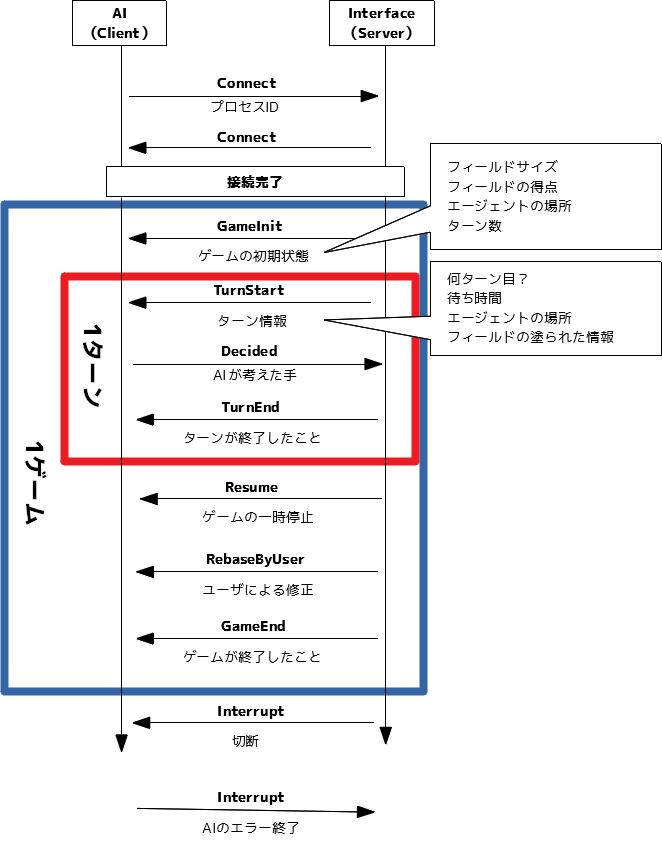
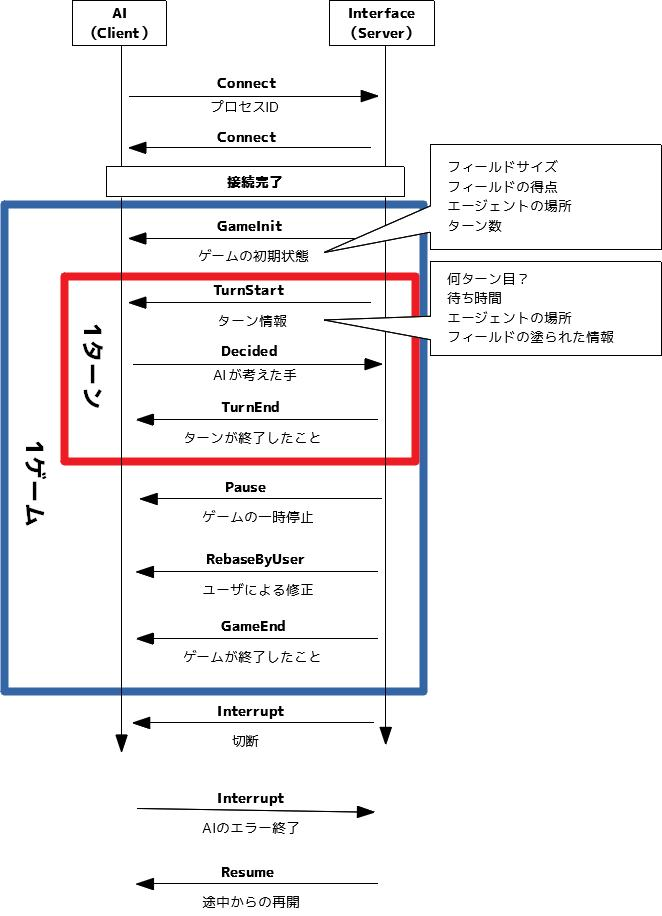
[ADD] Methods' constructors [FIX] FlowChart

diff --git a/MCTProcon29Protocol/MCTProcon29Protocol/Methods/GameInit.cs b/MCTProcon29Protocol/MCTProcon29Protocol/Methods/GameInit.cs
@@ -9,30 +9,39 @@ namespace MCTProcon29Protocol.Methods
     public class GameInit
     {
         [Key(0)]
-        public byte TeamId { get; set; }
-
-        [Key(1)]
         public byte BoardHeight { get; set; }
 
-        [Key(2)]
+        [Key(1)]
         public byte BoardWidth { get; set; }
 
-        [Key(3)]
+        [Key(2)]
         public sbyte[,] Board { get; set; }
 
-        [Key(4)]
+        [Key(3)]
         public Point MeAgent1 { get; set; }
 
-        [Key(5)]
+        [Key(4)]
         public Point MeAgent2 { get; set; }
 
-        [Key(6)]
+        [Key(5)]
         public Point EnemyAgent1 { get; set; }
 
-        [Key(7)]
+        [Key(6)]
         public Point EnemyAgent2 { get; set; }
 
-        [Key(8)]
+        [Key(7)]
         public byte Turns { get; set; }
+
+        public GameInit(byte height, byte width, sbyte[,] board, Point meAgent1, Point meAgent2, Point enemyAgent1, Point enemyAgent2, byte turns)
+        {
+            BoardHeight = height;
+            BoardWidth = width;
+            Board = board;
+            MeAgent1 = meAgent1;
+            MeAgent2 = meAgent2;
+            EnemyAgent1 = enemyAgent1;
+            EnemyAgent2 = enemyAgent2;
+            Turns = turns;
+        }
     }
 }

diff --git a/MCTProcon29Protocol/MCTProcon29Protocol/Methods/TurnStart.cs b/MCTProcon29Protocol/MCTProcon29Protocol/Methods/TurnStart.cs
@@ -31,5 +31,17 @@ namespace MCTProcon29Protocol.Methods
 
         [Key(7)]
         public ColoredBoardSmallBigger EnemyColoredBoard { get; set; }
+
+        public TurnStart(byte turn, int waitMiliSecs, Point meAgent1, Point meAgent2, Point enemyAgent1, Point enemyAgent2, in ColoredBoardSmallBigger meColoredBoard, in ColoredBoardSmallBigger enemyColoredBoard)
+        {
+            Turn = turn;
+            WaitMiliSeconds = waitMiliSecs;
+            MeAgent1 = meAgent1;
+            MeAgent2 = meAgent2;
+            EnemyAgent1 = enemyAgent1;
+            EnemyAgent2 = enemyAgent2;
+            MeColoredBoard = meColoredBoard;
+            EnemyColoredBoard = enemyColoredBoard;
+        }
     }
 }

diff --git a/MCTProcon29Protocol/MCTProcon29Protocol/Methods/Resume.cs b/MCTProcon29Protocol/MCTProcon29Protocol/Methods/Resume.cs
@@ -31,5 +31,16 @@ namespace MCTProcon29Protocol.Methods
 
         [Key(7)]
         public int LimitationTime { get; set; }
+
+        public Resume(byte turn, byte currentTurn, int boardHeight, int boardWidth, sbyte[,] board, ColoredBoardSmallBigger meColoredBoard, ColoredBoardSmallBigger enemyColoredBoard)
+        {
+            Turns = turn;
+            CurrentTurn = currentTurn;
+            BoardHeight = boardHeight;
+            BoardWidth = boardWidth;
+            Board = board;
+            MeColoredBoard = meColoredBoard;
+            EnemyColoredBoard = enemyColoredBoard;
+        }
     }
 }

diff --git a/MCTProcon29Protocol/MCTProcon29Protocol/Methods/RebaseByUser.cs b/MCTProcon29Protocol/MCTProcon29Protocol/Methods/RebaseByUser.cs
@@ -12,5 +12,11 @@ namespace MCTProcon29Protocol.Methods
         public Point Agent1 { get; set; }
         [Key(1)]
         public Point Agent2 { get; set; }
+
+        public RebaseByUser(Point agent1, Point agent2)
+        {
+            Agent1 = agent1;
+            Agent2 = agent2;
+        }
     }
 }

diff --git a/MCTProcon29Protocol/MCTProcon29Protocol/Methods/Connect.cs b/MCTProcon29Protocol/MCTProcon29Protocol/Methods/Connect.cs
@@ -15,6 +15,12 @@ namespace MCTProcon29Protocol.Methods
 
         [Key(1)]
         public int ProcessId { get; set; }
+
+        public Connect(ProgramKind kind)
+        {
+            Kind = (byte)kind;
+            ProcessId = System.Diagnostics.Process.GetCurrentProcess().Id;
+        }
     }
 
 

diff --git a/MCTProcon29Protocol/MCTProcon29Protocol/Methods/GameEnd.cs b/MCTProcon29Protocol/MCTProcon29Protocol/Methods/GameEnd.cs
@@ -13,5 +13,11 @@ namespace MCTProcon29Protocol.Methods
 
         [Key(1)]
         public int EnemyScore { get; set; }
+
+        public GameEnd(int score, int enemyScore)
+        {
+            MeScore = score;
+            EnemyScore = enemyScore;
+        }
     }
 }

diff --git a/MCTProcon29Protocol/MCTProcon29Protocol/Methods/Decided.cs b/MCTProcon29Protocol/MCTProcon29Protocol/Methods/Decided.cs
@@ -14,5 +14,11 @@ namespace MCTProcon29Protocol.Methods
         [Key(1)]
         public Point MeAgent2 { get; set; }
 
+
+        public Decided(Point agent1, Point agent2)
+        {
+            MeAgent1 = agent1;
+            MeAgent2 = agent2;
+        }
     }
 }

diff --git a/MCTProcon29Protocol/MCTProcon29Protocol/Methods/Pause.cs b/MCTProcon29Protocol/MCTProcon29Protocol/Methods/Pause.cs
@@ -10,5 +10,10 @@ namespace MCTProcon29Protocol.Methods
     {
         [Key(0)]
         public bool IsEnter { get; set; }
+
+        public Pause(bool isEnter)
+        {
+            IsEnter = isEnter;
+        }
     }
 }

diff --git a/MCTProcon29Protocol/MCTProcon29Protocol/Methods/TurnEnd.cs b/MCTProcon29Protocol/MCTProcon29Protocol/Methods/TurnEnd.cs
@@ -10,5 +10,10 @@ namespace MCTProcon29Protocol.Methods
     {
         [Key(0)]
         public byte Turn { get; set; }
+
+        public TurnEnd(byte turn)
+        {
+            Turn = turn;
+        }
     }
 }
